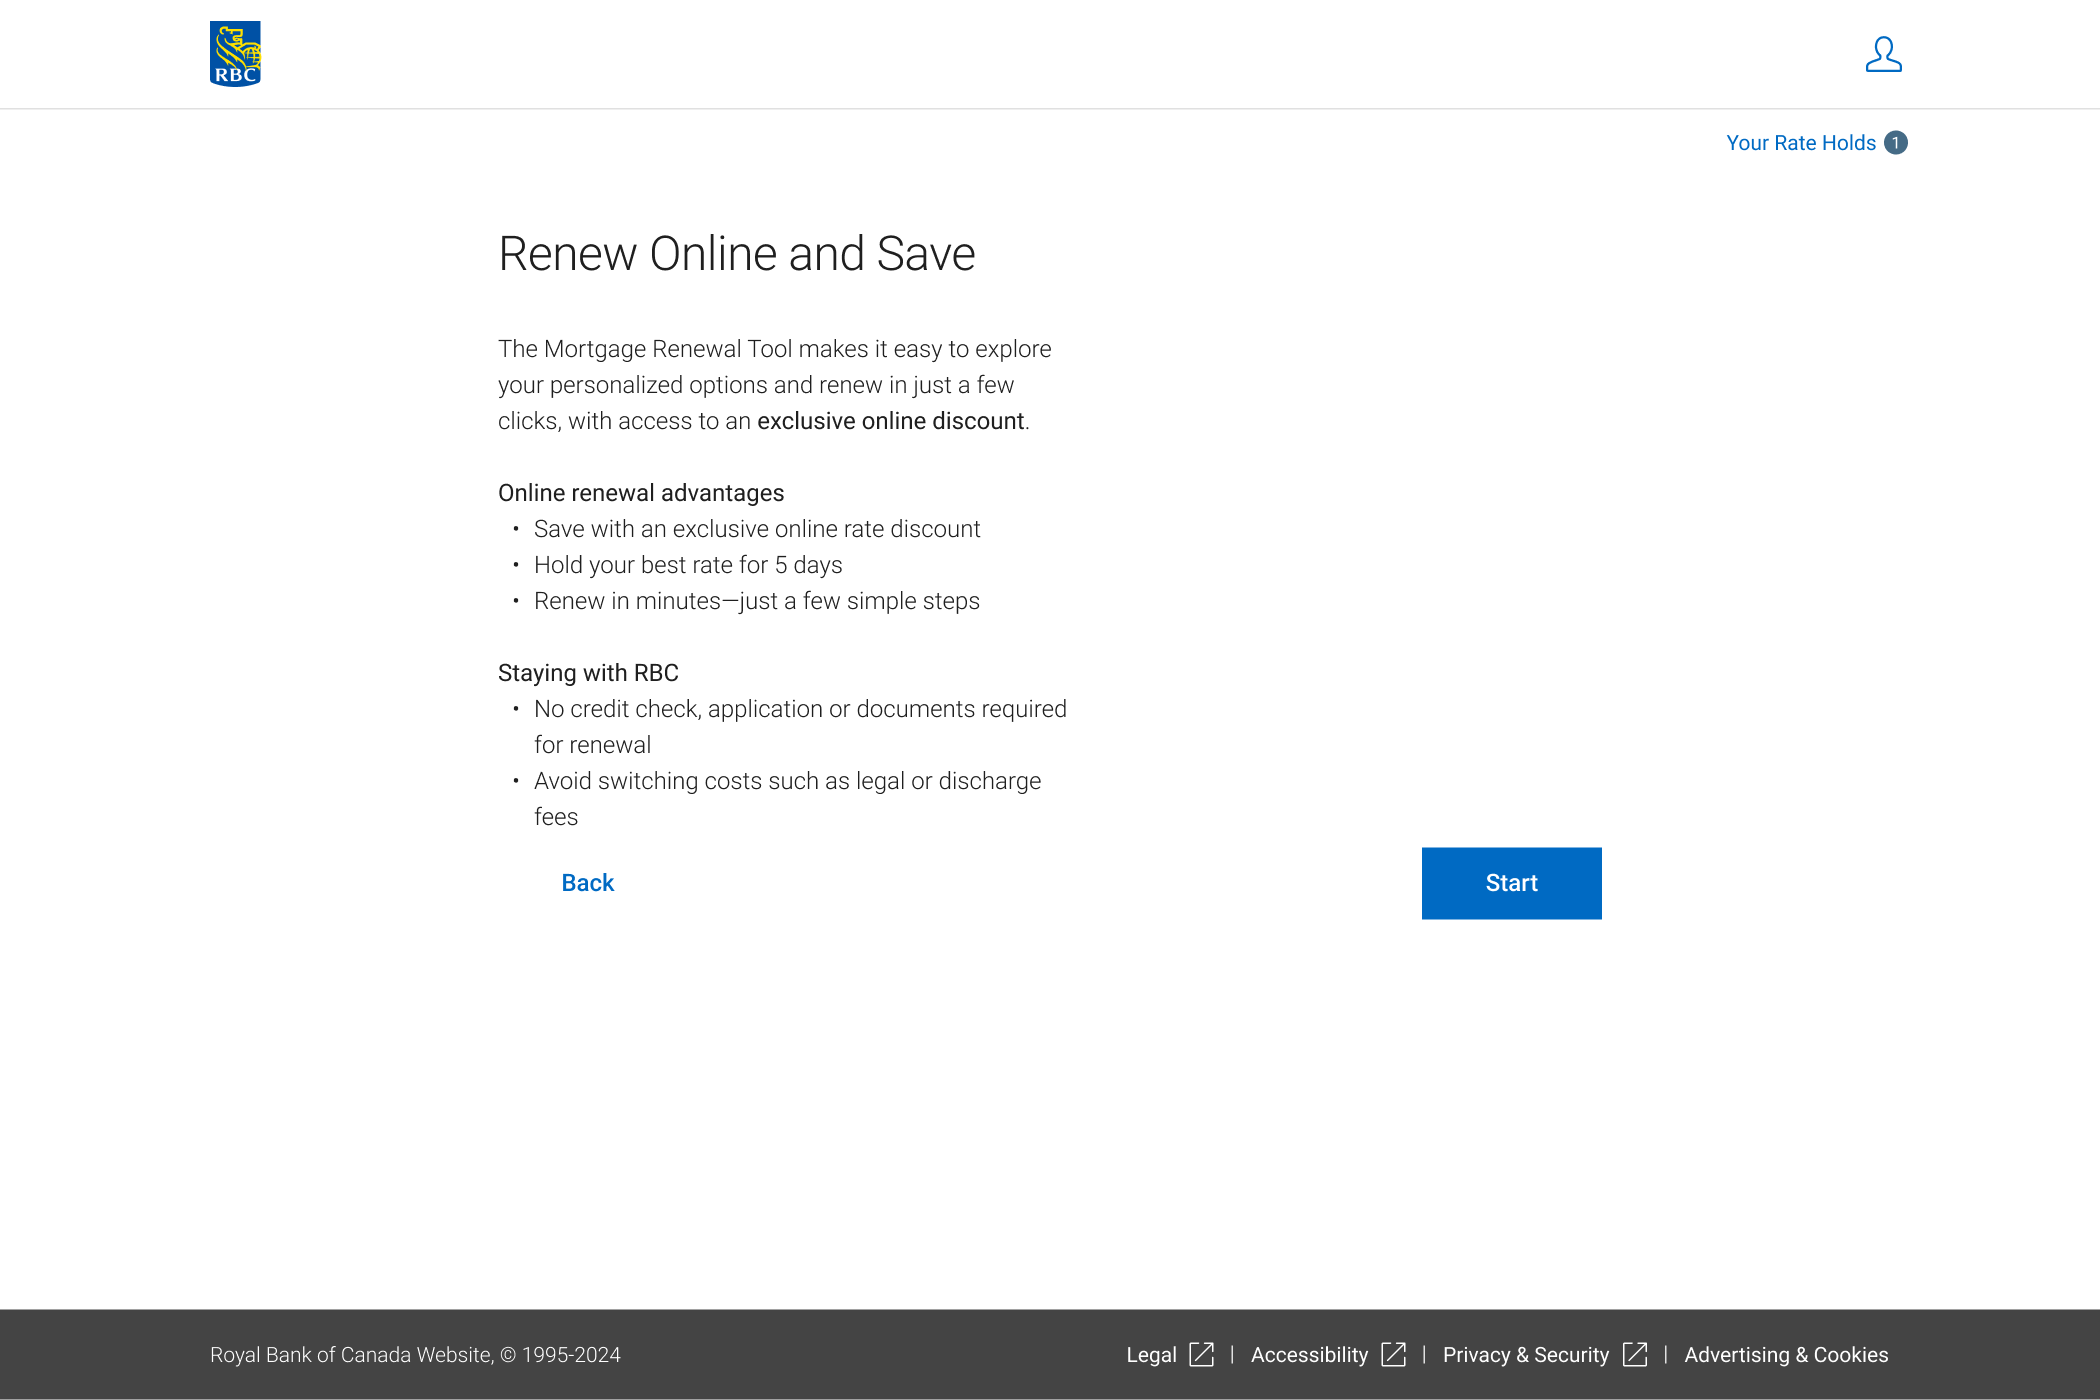
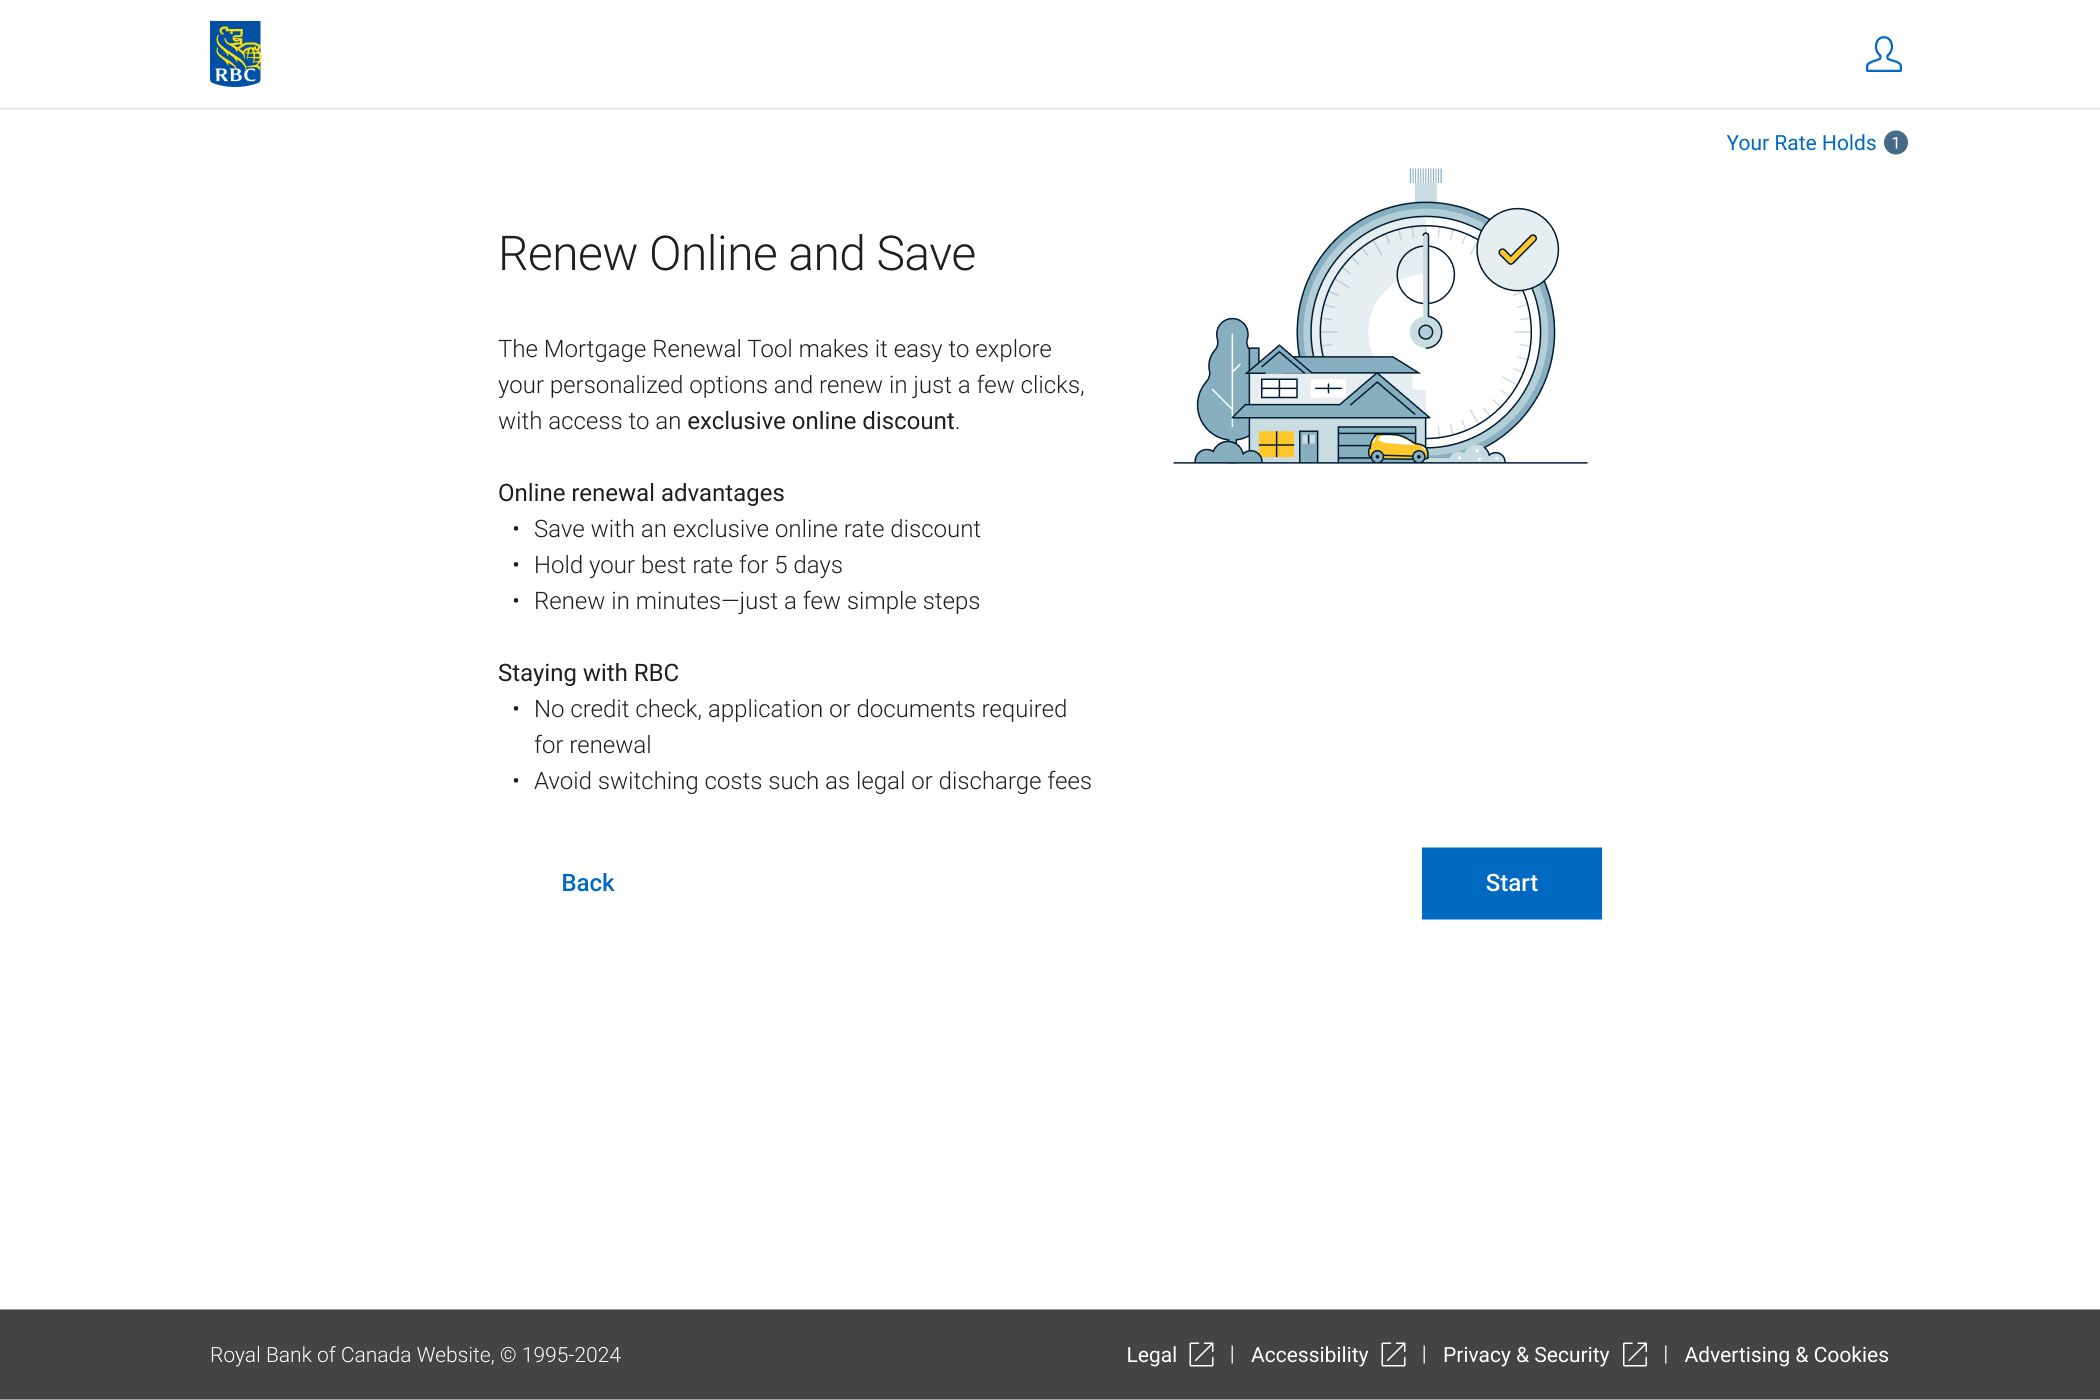
thumbnail rbc + nutoast

Changed region(s): [[0.5571, 0.1229, 0.7429, 0.3379], [0.2476, 0.2764, 0.4952, 0.3071]]

diff --git a/ux-nutoast.html b/ux-nutoast.html
@@ -30,10 +30,8 @@
     <!-- =====================================================================
          Hero Banner (21:9 placeholder)
          ===================================================================== -->
-    <div class="image-container" style="margin: 0;">
-        <div style="background-color: #E8E8E8; width: 100%; aspect-ratio: 21/9; display: flex; align-items: center; justify-content: center;">
-            <p style="color: #999; font-size: 14px;">[IMAGE PLACEHOLDER: NuToast project hero banner]</p>
-        </div>
+    <div class="image-container" style="padding: 0;">
+        <img src="image/nutoast/quick showcase - nutoast.png" alt="NuToast B2B Website Redesign Quick Showcase" class="full-width-img" style="border-radius: 0px;">
     </div>
 
     <!-- =====================================================================
@@ -987,7 +985,7 @@
                                 <h3 class="finding-title-2">Product visibility</h3>
                             </div>
                             <div class="finding-description-2">
-                                <p>Procurement buyers can now assess product fit within seconds of landing on the homepage — the single biggest factor in whether they stay or leave.</p>
+                                <p>Procurement buyers can now assess product fit within seconds of landing on the homepage, the single biggest factor in whether they stay or leave.</p>
                             </div>
                         </div>
 
@@ -1005,7 +1003,7 @@
                                 <h3 class="finding-title-2">Sales-ready inquiries</h3>
                             </div>
                             <div class="finding-description-2">
-                                <p>Every contact form submission arrives with structured context — role, product interest, order volume — so sales can qualify and respond without chasing basics.</p>
+                                <p>Every contact form submission arrives with structured context, role, product interest, order volume, so sales can qualify and respond without chasing basics.</p>
                             </div>
                         </div>
 